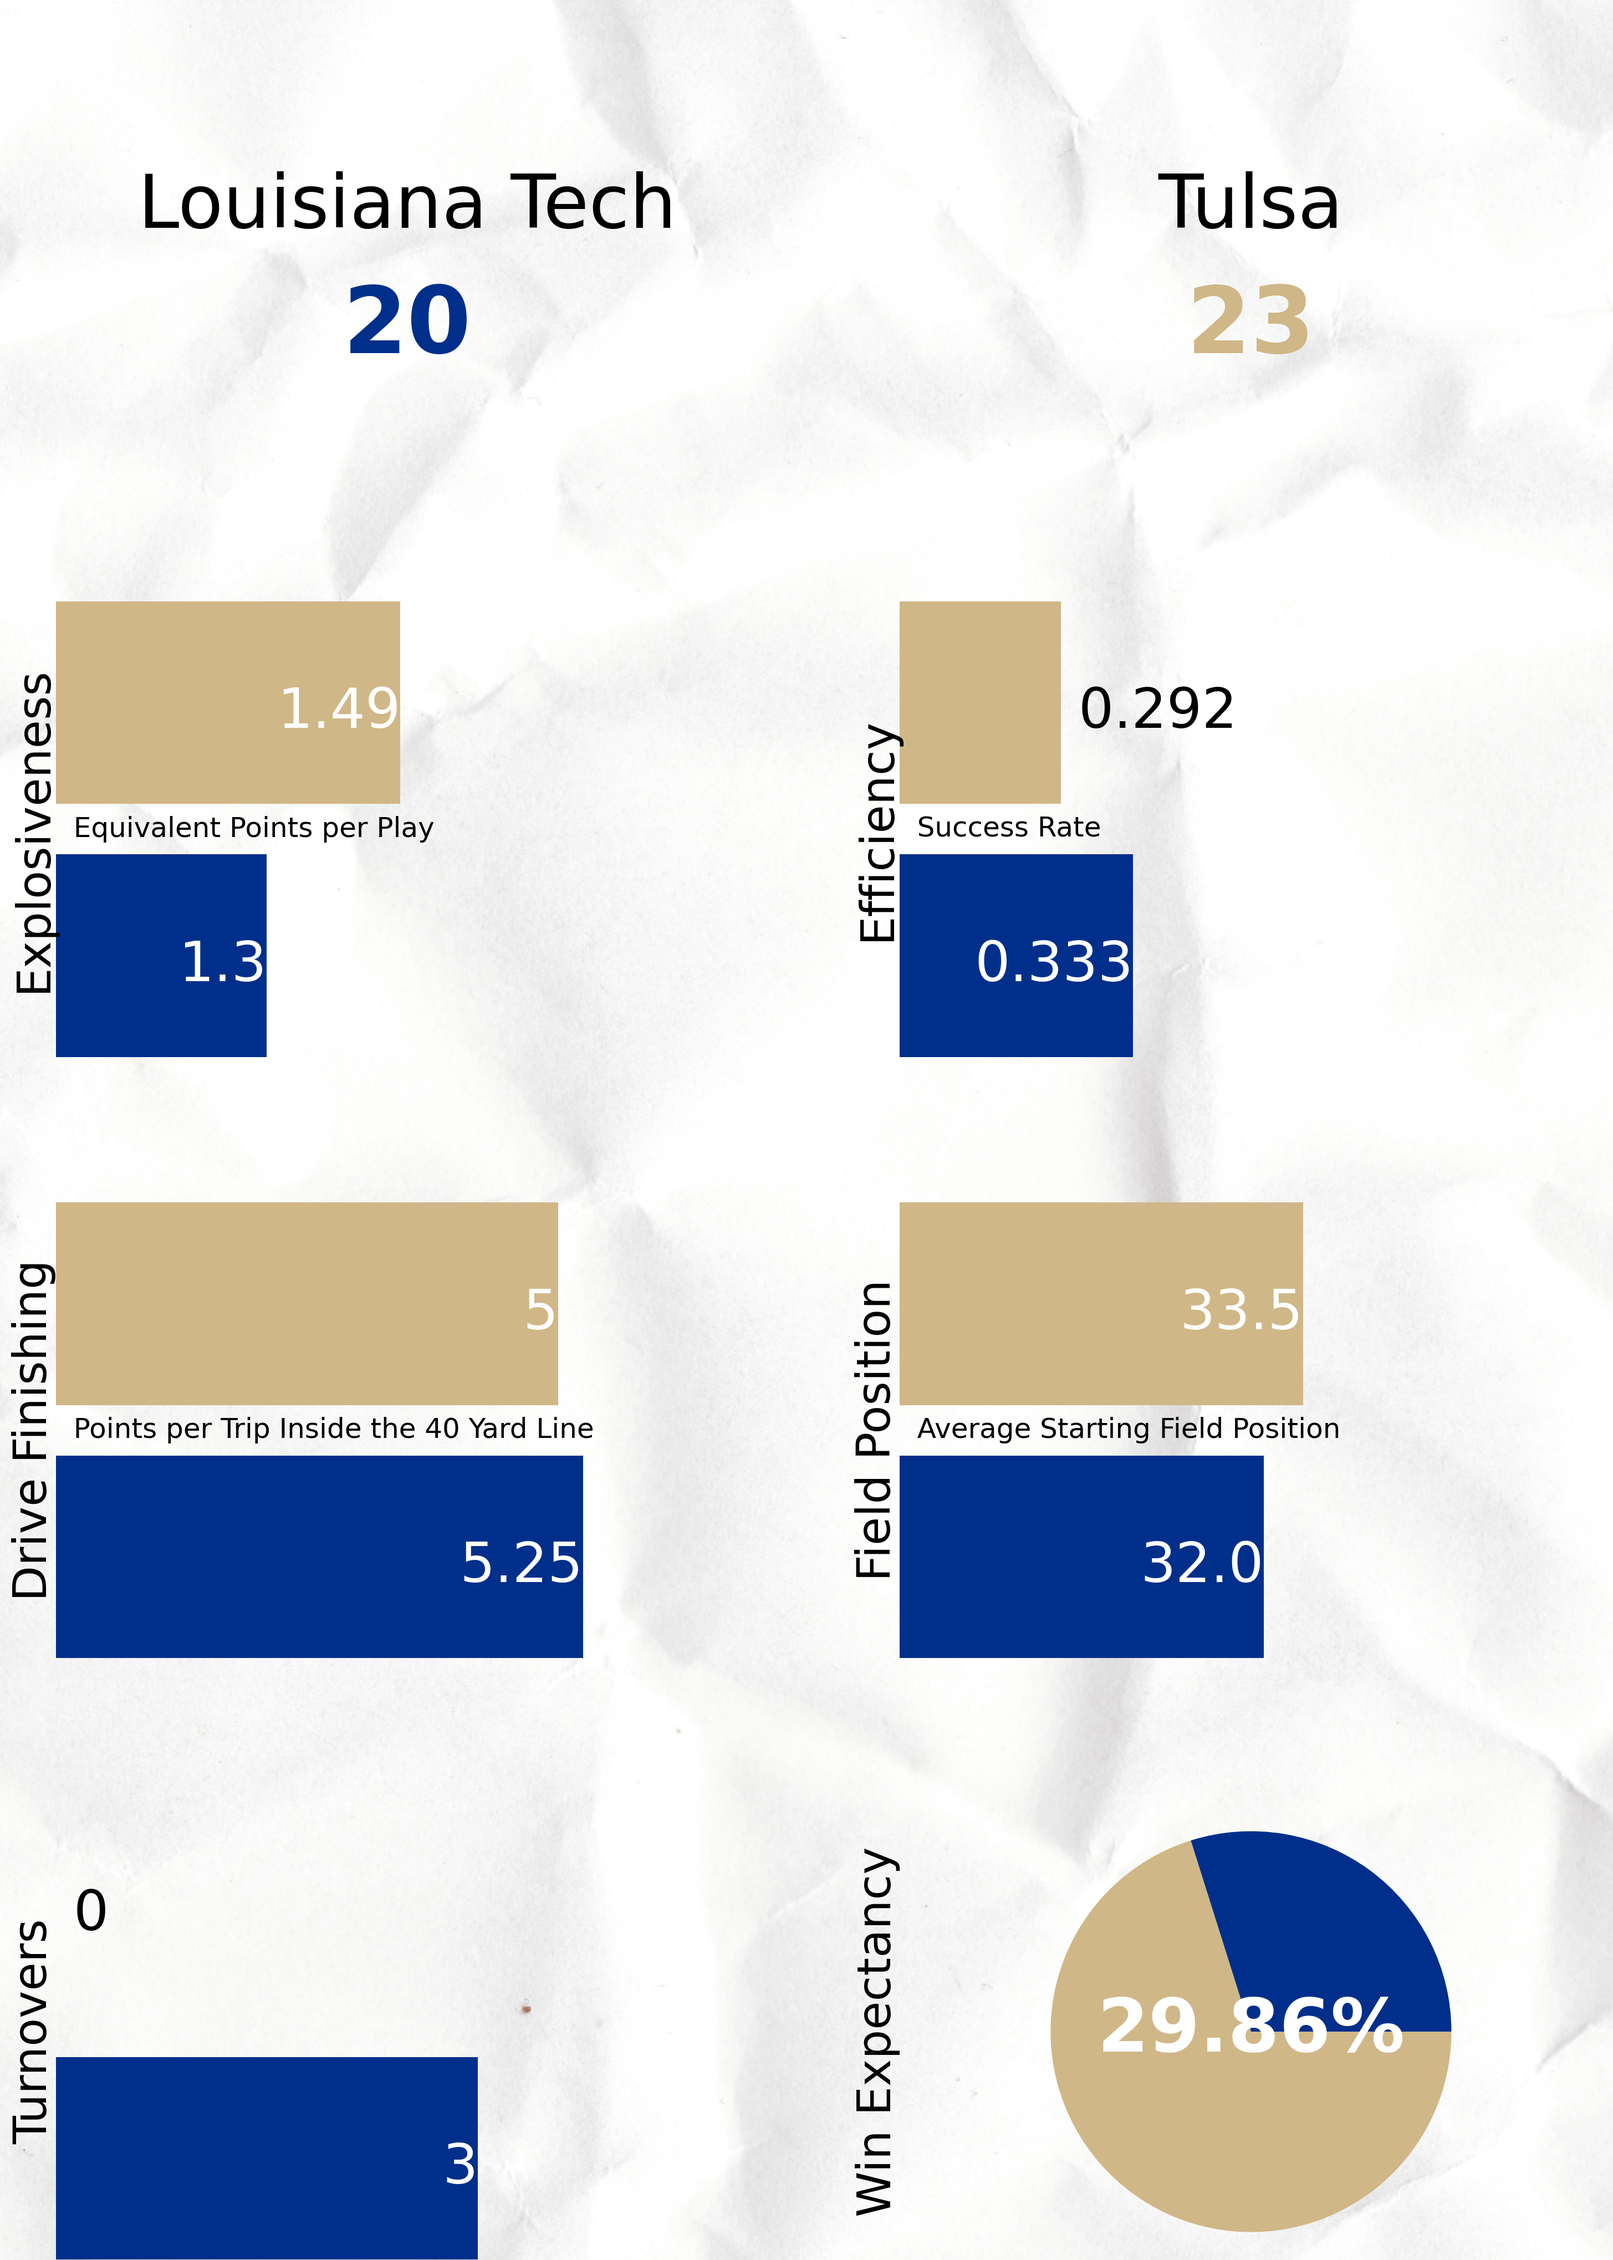
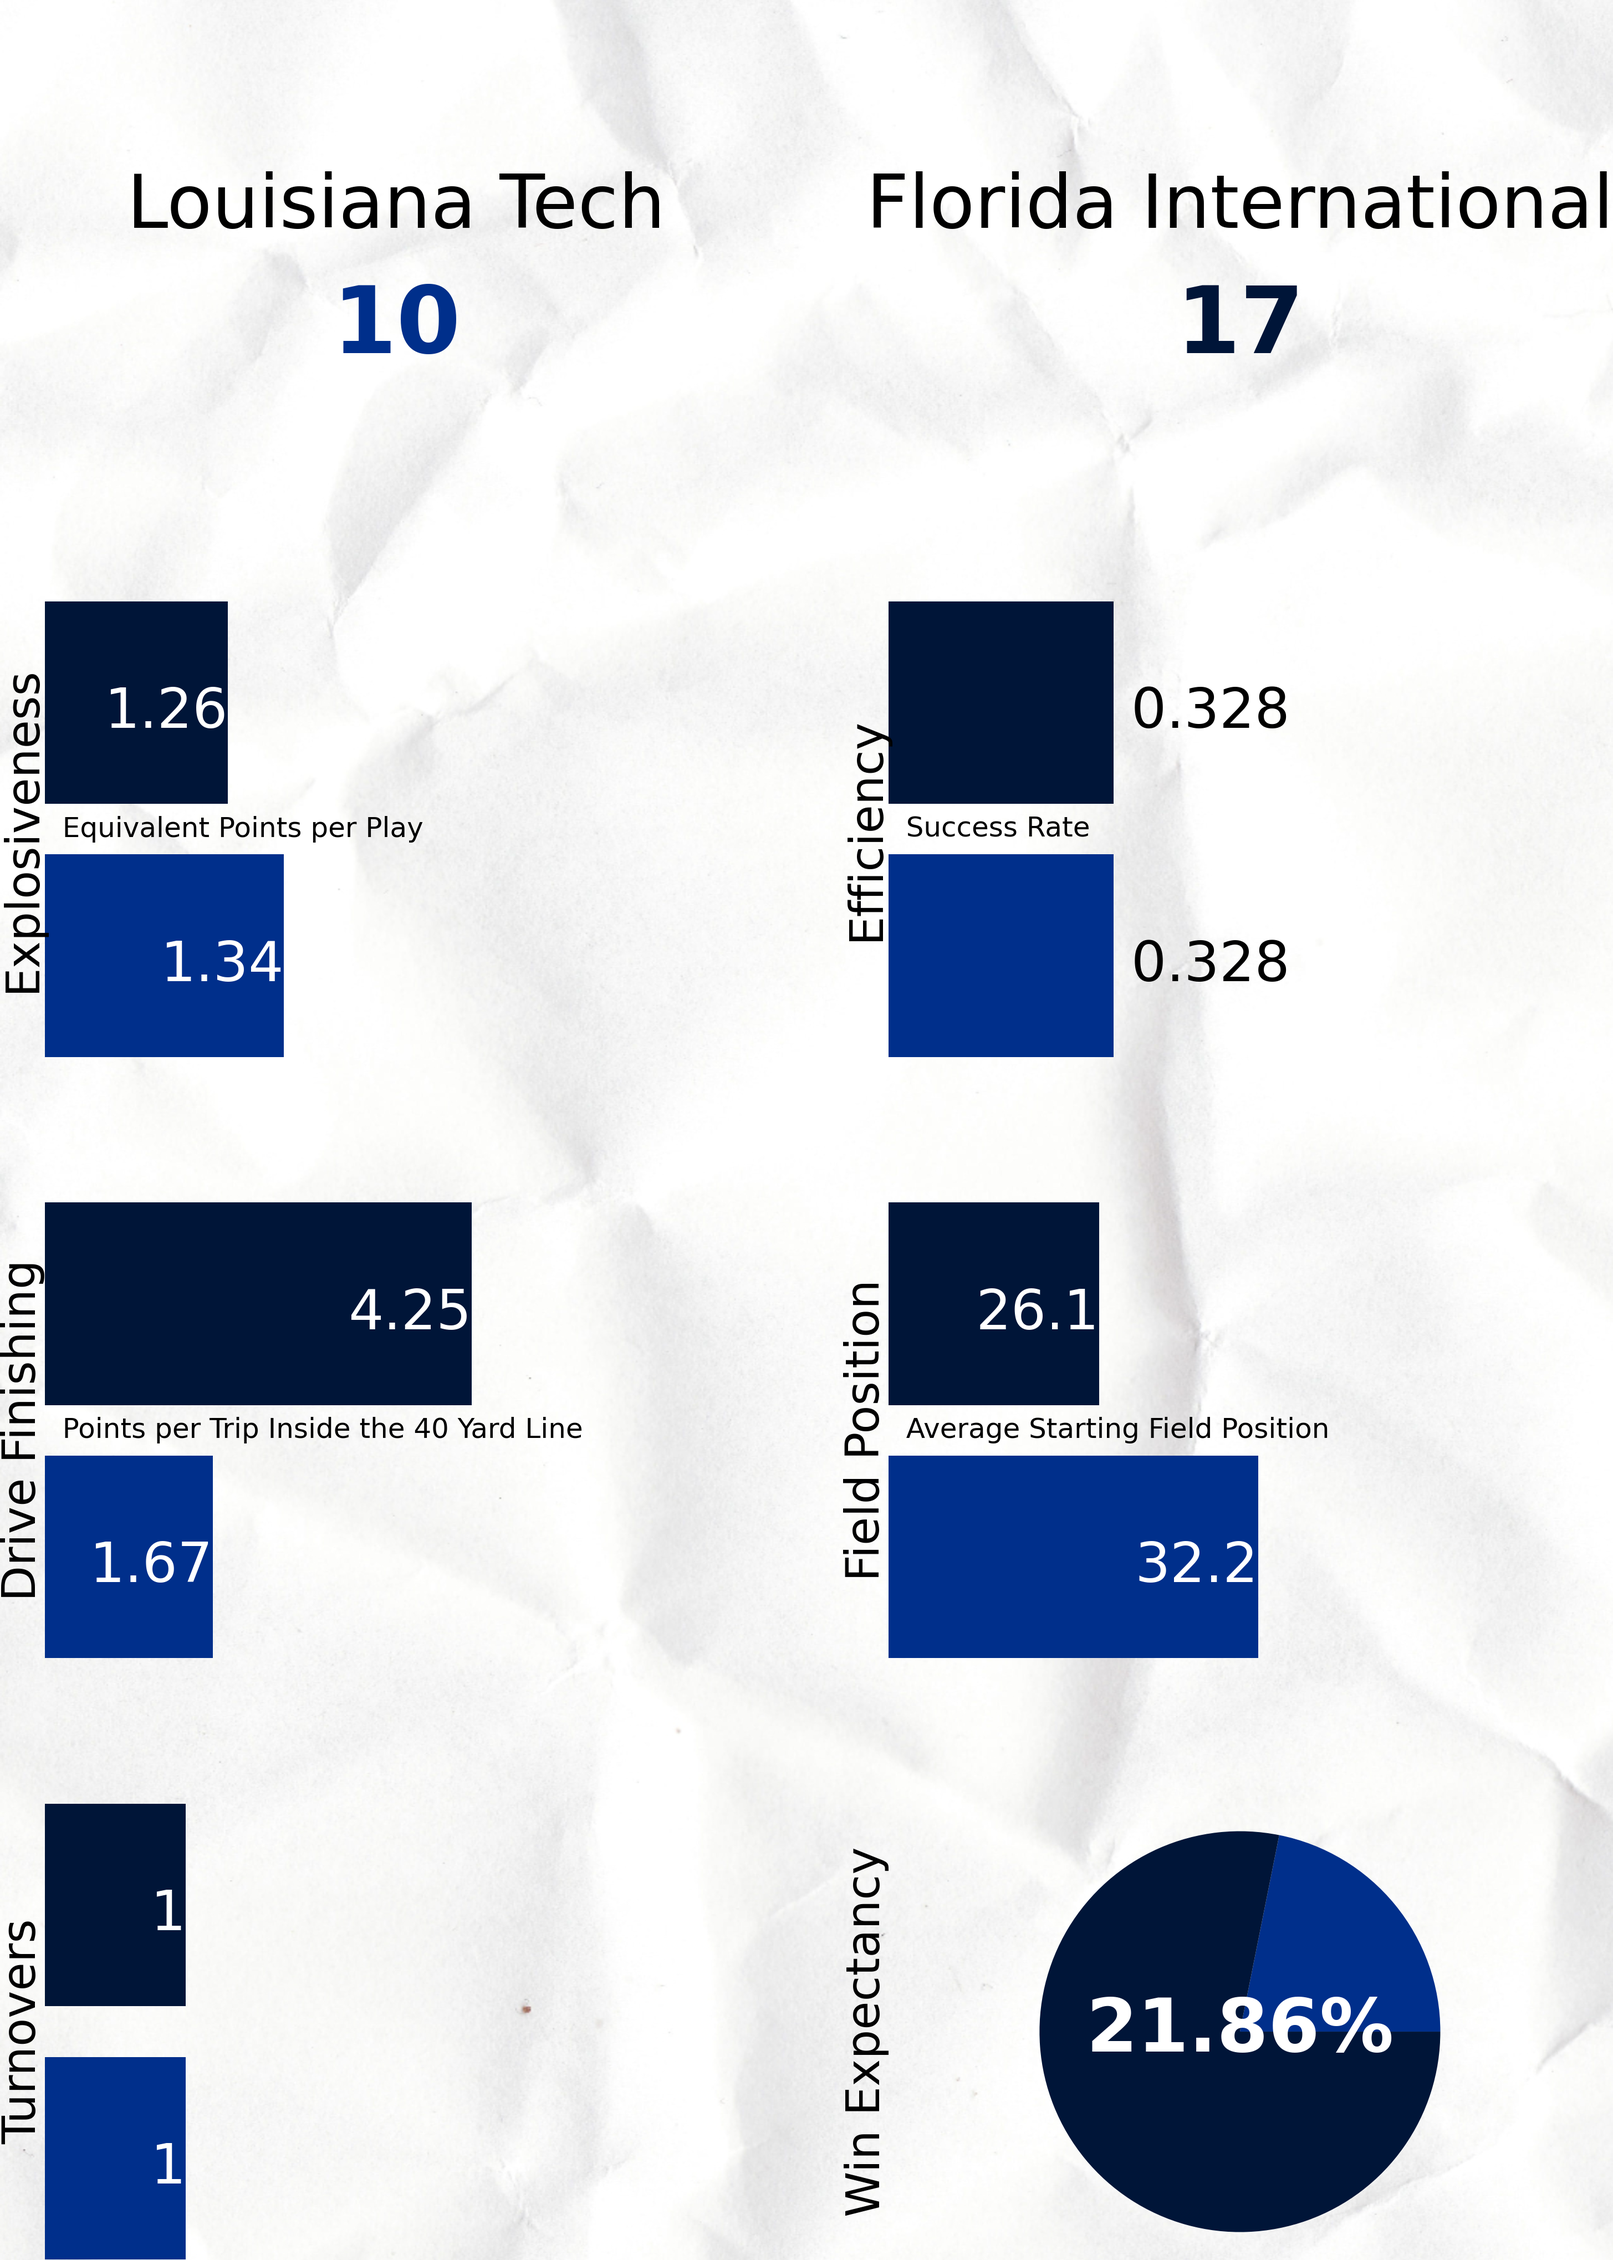
General Updates

diff --git a/fbRecordPredictor.py b/fbRecordPredictor.py
@@ -10,7 +10,6 @@ import numpy as np
 from datetime import datetime, timezone
 import matplotlib.pyplot as plt
 from PIL import Image
-from lib.common import createTweet
 from lib.fbCommon import getFBSchedule, getTeamInfo
 
 
@@ -35,8 +34,8 @@ def fbRecordPredictor(platform):
         
         import boto3
         s3 = boto3.client('s3')
-        backgroundPath = '/tmp/fbRecordPredictorBackground.png'
-        s3.download_file('gtpdd', 'fb_record_predictor_background.png', '/tmp/fbRecordPredictorBackground.png')
+        backgroundPath = 'img/fbRecordPredictorBackground.png'
+        s3.download_file('gtpdd', 'fb_record_predictor_background.png', 'img/fbRecordPredictorBackground.png')
     
     
     present = datetime.now(timezone.utc)
@@ -230,7 +229,7 @@ def fbRecordPredictor(platform):
     ax.set_ylim([0,max(wins)+0.05])
     ax.axis('off')
     now = datetime.now()
-    datestring = now.strftime("%B %-d, %Y")
+    datestring = now.strftime("%B %d, %Y")
     ax.set_title("Using ESPN's FPI | " +str(datestring), fontsize = 30, color = 'white')
     plt.suptitle('Tech Record Predictor', fontsize = 45, color = 'white', fontweight = 'bold')
     fig.savefig(figPath, bbox_inches='tight', pad_inches = 0, dpi=100, transparent = True)

diff --git a/fbAdvancedBoxScore.py b/fbAdvancedBoxScore.py
@@ -282,4 +282,4 @@ def fbAdvancedBoxScore(gameId, teamId):
     name, color1, color2 = getTeamInfo(teamId)
     create_graphic(name, result, win_prob, tech_list, oppo_list, tech_pts, oppo_pts, color1)
     
-fbAdvancedBoxScore('401641008', '202')
+fbAdvancedBoxScore('401640981', '2229')

diff --git a/lib/fbCommon.py b/lib/fbCommon.py
@@ -43,4 +43,4 @@ def getTeamInfo(teamID):
     color1 = x['team']['color']
     color2 = x['team']['alternateColor']
     
-    return name, color2, color1
+    return name, color1, color2
